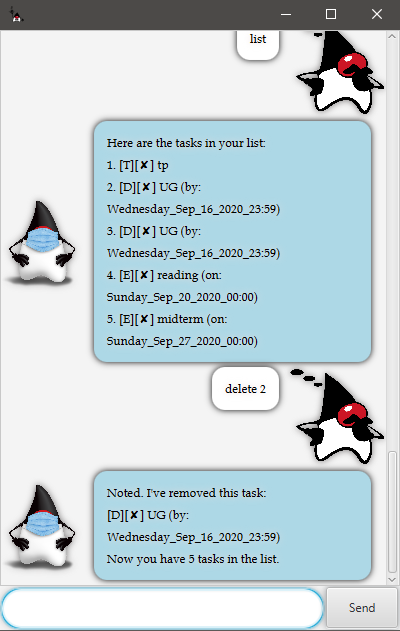
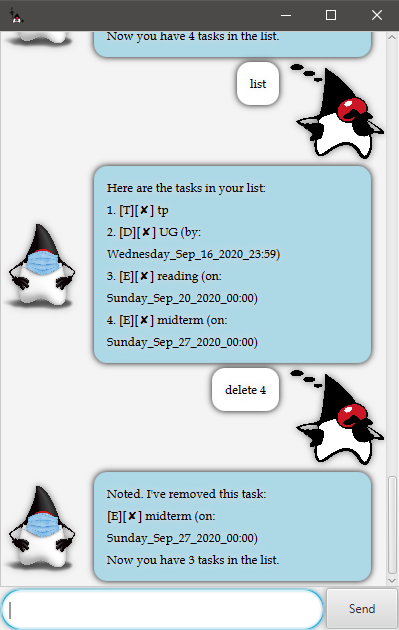
update DeleteCommand, readme and workflow
Previously the delete command cannot review correct task number.
Hence readme is also corrected.

Changed region(s): [[0.0, 0.0, 1.0, 1.0], [0.0, 0.3016, 0.2105, 0.5127]]

diff --git a/src/main/java/duke/command/DeleteCommand.java b/src/main/java/duke/command/DeleteCommand.java
@@ -32,6 +32,8 @@ public class DeleteCommand implements Command {
         DukeFileEditor dukeFileEditor = new DukeFileEditor(Directory.FILEDIRECTORY);
         dukeFileEditor.deleteLine(num);
 
+        Parser.reloadTaskList();
+        taskList = Parser.getTaskList();
         String response =
                 Statement.DELETE.toString()
                         + task

diff --git a/docs/README.md b/docs/README.md
@@ -153,8 +153,8 @@ Example:
 Format: `[update] <space> <index> <space> <detail/time> <space> </to> <content>`
 
 Example: 
-* `update 2 detail to CS2103T lesson` update the detail of the 2nd task to `CS2103T lesson`. 
-* `update 3 time /to 1600` update the time of the 3rd task to `2359` of the present day.
+* `update 2 detail /to CS2103T lesson` update the detail of the 2nd task to `CS2103T lesson`. 
+* `update 3 time /to 1600` update the time of the 3rd task to `1600` of the present day.
 
 ![updateDetailImage](./image/update_detail.png)
 ![updateTimeImage](./image/update_time.png)
